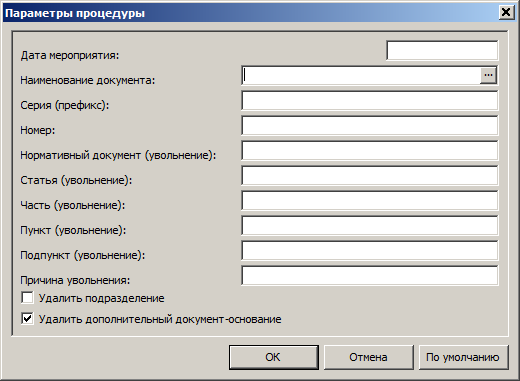
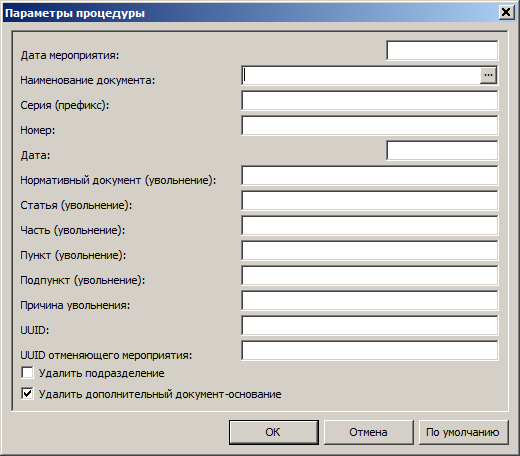
Исправление мероприятия

diff --git a/docs/etk.md b/docs/etk.md
@@ -57,11 +57,9 @@
 
 ### Исправление сведений о трудовой деятельности
 
-Если в _нижней части_ раздела есть увольнение, то должны быть заполнены поля основания увольнения. На записи увольнения правая кнопка мыши, **Исправить**, вкладка **Документ**.
+Для всех кадровых мероприятий должны быть заполнены поля документа-снования: Наименование документа (например, ПРИКАЗ), номер и дата. Для увольнения, должны быть заполнены поля основания увольнения. 
 
-![Исправление](images/sved_update.png)
-
-Если поля основания увольнения пустые, нажмите кнопку **Отмена**, на записи увольнения правая кнопка мыши, **Расширения, Пользовательские процеруды, Исправление сведений о трудовой деятельности**. Заполните параметры, нажмите **OK**.
+На записи кадрового мероприятия правая кнопка мыши, **Расширения, Пользовательские процеруды, Исправление сведений о трудовой деятельности**. Заполните параметры, нажмите **OK**.
 
 ![Параметры](images/sved_update_param.png)
 
